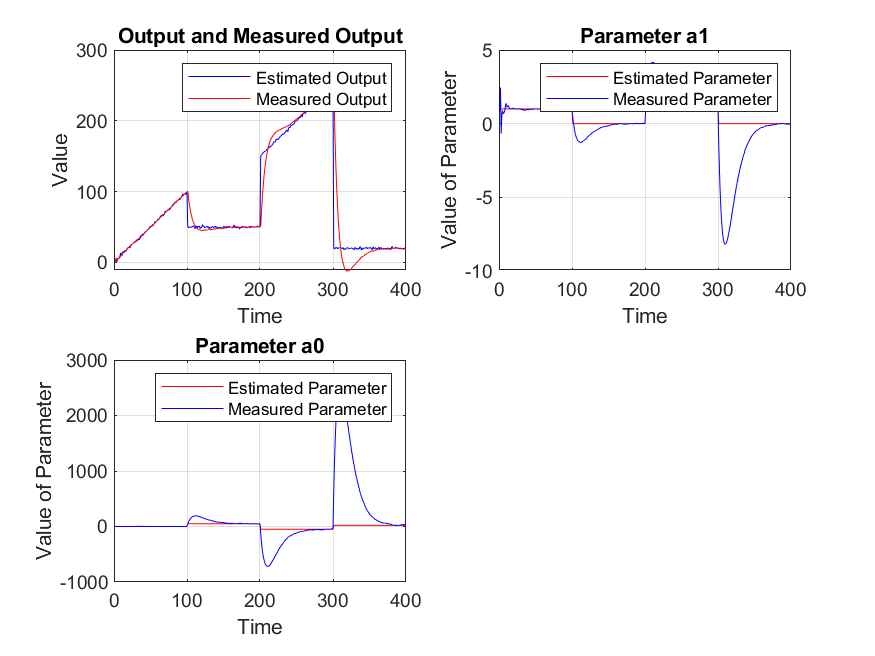
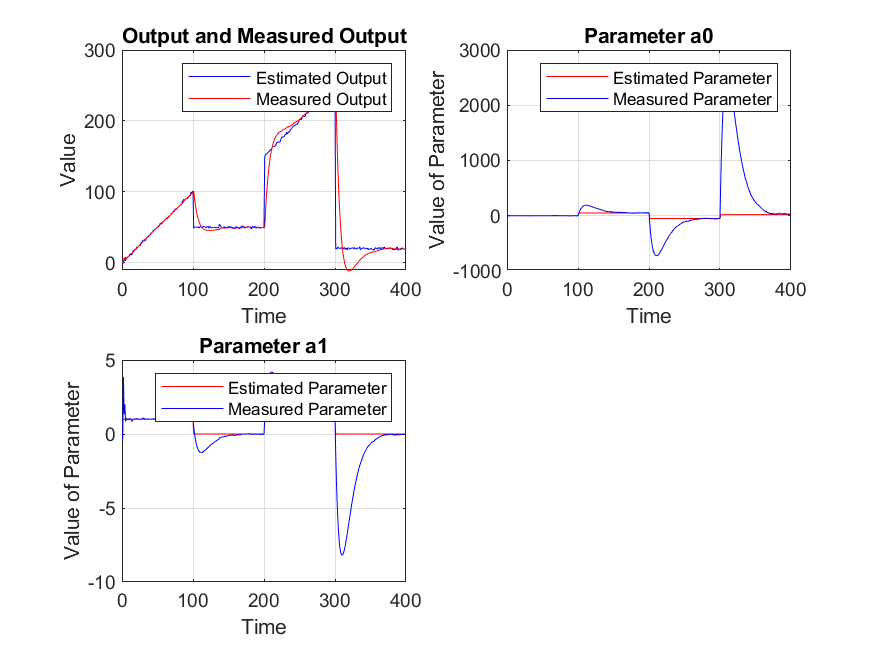
Changes to images

diff --git a/MATLAB/code/Test2.m b/MATLAB/code/Test2.m
@@ -54,7 +54,7 @@ legend('Estimated Parameter','Measured Parameter');
 grid on 
 
 
-subplot(2,2,3);
+subplot(2,2,2);
 plot(numSample,true_a0,'r-');
 hold on 
 plot(numSample,theta_full(:,2),'b-')
@@ -63,5 +63,16 @@ ylabel('Value of Parameter');
 title('Parameter a0')
 legend('Estimated Parameter','Measured Parameter');
 grid on 
+
+subplot(2,2,3);
+plot(numSample,true_a1,'r-');
+hold on 
+plot(numSample,theta_full(:,1),'b-')
+xlabel('Time');
+ylabel('Value of Parameter');
+title('Parameter a1')
+legend('Estimated Parameter','Measured Parameter');
+grid on 
+ 
 
 print('..\rls\MATLAB\images\Test2Check','-dpng');
